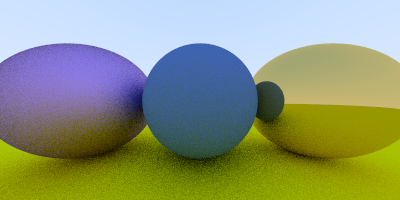
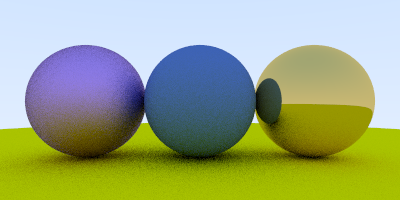
Added DoF

diff --git a/main.cpp b/main.cpp
@@ -21,11 +21,11 @@ constexpr float MAX_FLOAT = 100.f;
 int max_bounces = 5;
 
 
-vec3 compute_color(const ray& r, hittable* world, int bounces = 0) {
+vec3 compute_color(const ray& r, hittable_list world, int bounces = 0) {
     hit_record rec;
 
     // hit an object
-    if (world->hit(r, 0.001f, MAX_FLOAT, rec)) {
+    if (world.hit(r, 0.001f, MAX_FLOAT, rec)) {
         ray scattered;
         vec3 attenuation;
         if (bounces < max_bounces && rec.mat_ptr->scatter(r, rec, attenuation, scattered)) {
@@ -47,8 +47,8 @@ int main(int argc, char* argv[]) {
     constexpr int channels = 3;
     std::string filename = "output";
     int width = 400; int height = 200, samples = 50;
-    float fov = 90.f;
-    vec3 cam_pos(0.f, 0.f, 0.f), look_at(0.f, 0.f, -1.f);
+    float fov = 40.f, aperture = 0.0f, focus_dist = 0.f;
+    vec3 cam_pos(0.f, 0.f, 1.5f), look_at(0.f, 0.f, -1.f);
     for (size_t i = 0; i < argc; i++) {
         if (strcmp(argv[i], "-f") == 0)
             filename = argv[i + 1];
@@ -70,6 +70,11 @@ int main(int argc, char* argv[]) {
             cam_pos = vec3(std::stof(argv[i + 1]), std::stof(argv[i + 2]), std::stof(argv[i + 3]));
         else if (strcmp(argv[i], "-look") == 0)
             look_at = vec3(std::stof(argv[i + 1]), std::stof(argv[i + 2]), std::stof(argv[i + 3]));
+
+        else if (strcmp(argv[i], "-a") == 0)
+            aperture = std::stof(argv[i + 1]);
+        else if (strcmp(argv[i], "-focus") == 0)
+            focus_dist = std::stof(argv[i + 1]);
     }
 
     unsigned char* data = static_cast<unsigned char*>(malloc(static_cast<size_t>(width) * static_cast<size_t>(height) * static_cast<size_t>(channels)));
@@ -91,13 +96,15 @@ int main(int argc, char* argv[]) {
     vec3 color;
 
     hittable* list[4];
-    list[0] = new sphere(vec3(0, 0, -1), 0.5, new lambertian(vec3(0.1, 0.2, 0.5)));
-    list[1] = new sphere(vec3(0, -100.5, -1), 100, new lambertian(vec3(0.8, 0.8, 0.0)));
-    list[2] = new sphere(vec3(1, 0, -1), 0.5, new metal(vec3(0.8, 0.6, 0.2), 0.0));
+    list[0] = new sphere(vec3(0.f, -100.5f, -1.f), 100, new lambertian(vec3(0.8f, 0.8f, 0.0f)));
+    list[1] = new sphere(vec3(0.f, 0.f, -1.f), 0.5f, new lambertian(vec3(0.1f, 0.2f, 0.5f)));
+    list[2] = new sphere(vec3(1.f, 0.f, -1.f), 0.5f, new metal(vec3(0.8f, 0.6f, 0.2f), 0.0f));
     list[3] = new sphere(vec3(-1, 0, -1), 0.5, new metal(vec3(0.5, 0.3, 0.8), 1.0));
-    hittable* world = new hittable_list(list, 4);
+    hittable_list world(list, 4);
 
-    camera cam(cam_pos, look_at, vec3(0.f, 1.f, 0.f), fov, aspect_ratio);
+    if (!focus_dist)
+        focus_dist = (cam_pos - look_at).length();
+    camera cam(cam_pos, look_at, vec3(0.f, 1.f, 0.f), fov, aspect_ratio, aperture, focus_dist);
 
     for (size_t y = height; y > 0; y--) {
         for (size_t x = 0; x < width; x++) {

diff --git a/camera.h b/camera.h
@@ -3,12 +3,12 @@
 constexpr float M_PI = 3.1415f;
 
 #include "ray.h"
+#include "random.h"
 
 class camera {
 public:
-    camera(const vec3& lookfrom, const vec3& lookat, const vec3& up_vector, const float& vertical_fov, const float& aspect_ratio) {
-        vec3 u, v, w;
-
+    camera(const vec3& lookfrom, const vec3& lookat, const vec3& up_vector, const float& vertical_fov, const float& aspect_ratio, const float& aperture, const float& focus_dist) {
+        lens_radius = aperture / 2;
         float theta = vertical_fov * M_PI / 180;
         float half_height = tan(theta / 2);
         float half_width = aspect_ratio * half_height;
@@ -17,17 +17,22 @@ public:
         w = unit_vector(lookfrom - lookat);
         u = unit_vector(cross(up_vector, w));
         v = cross(w, u);
-        lower_left_corner = origin - half_width * u - half_height * v - w;
-        horizontal = 2 * half_width * u;
-        vertical = 2 * half_height * v;
+        lower_left_corner = origin - half_width * focus_dist * u - half_height * focus_dist * v - focus_dist * w;
+        horizontal = 2 * half_width * focus_dist * u;
+        vertical = 2 * half_height * focus_dist * v;
     }
 
-    ray get_ray(const float& u, const float& v) {
-        return ray(origin, lower_left_corner + u * horizontal + v * vertical - origin);
+    ray get_ray(const float& s, const float& t) {
+        vec3 rd = lens_radius * random_in_unit_disk();
+        vec3 offset = u * rd.x() + v * rd.y();
+        return ray(origin + offset, lower_left_corner + s * horizontal + t * vertical - origin - offset);
     }
 
+private:
     vec3 origin;
     vec3 lower_left_corner;
     vec3 horizontal;
     vec3 vertical;
+    vec3 u, v, w;
+    float lens_radius;
 };

diff --git a/random.h b/random.h
@@ -15,3 +15,11 @@ inline vec3 random_in_unit_sphere() {
     } while (point.squared_length() >= 1.0f);
     return point;
 }
+
+inline vec3 random_in_unit_disk() {
+    vec3 point;
+    do {
+        point = 2.0f * vec3(float(random_double()), float(random_double()), 0.f) - vec3(1.f, 1.f, 0.f);
+    } while (point.squared_length() >= 1.0f);
+    return point;
+}

diff --git a/README.md b/README.md
@@ -12,7 +12,7 @@ Doesn't have any dependency and uses standard C++ code only, should easily compi
 ## Usage and command line options
 
 ```
-PathTracerInOneWE.exe [-f **filename** -w **width** -h **height** -s **samples per pixel** -b **max ray bounces** -fov **field of view** -cam **camera position** -look **camera look at position**]
+PathTracerInOneWE.exe [-f **filename** -w **width** -h **height** -s **samples per pixel** -b **max ray bounces** -fov **field of view** -cam **camera position** -look **camera look at position** -a **aperture** -focus **focus distance**]
 ```
 
 #### Command line Options
@@ -24,7 +24,9 @@ PathTracerInOneWE.exe [-f **filename** -w **width** -h **height** -s **samples p
 - **max ray bounces** *(-b)*: Number of bounces till ray is aborted. 1 bounce corresponds to direct lightning only. Default value: 5
 - **field of view** *(-fov)*: A float value for the camera field of view. Default value: 90
 - **camera position** *(-cam)*: Three consecutive floats for the camera position. Default value: 0 0 0
-- **camera look at position** *(-look)*: Three consecutive floats for the point the camera is pointing to. Default value: 0 0 -1
+- **camera look at position** *(-look)*: Three consecutive floats for the point the camera is pointing at. Default value: 0 0 -1
+- **aperture** *(-a)*: The aperture size of the lens (float). Default value: 0
+- **focus distance** *(-focus)*: Any object at this distance will be in focus (float). If set to 0 will equal the distance between the camera and the look at point. Default value: 0
 
 Example command line and resulting output:
 ```
